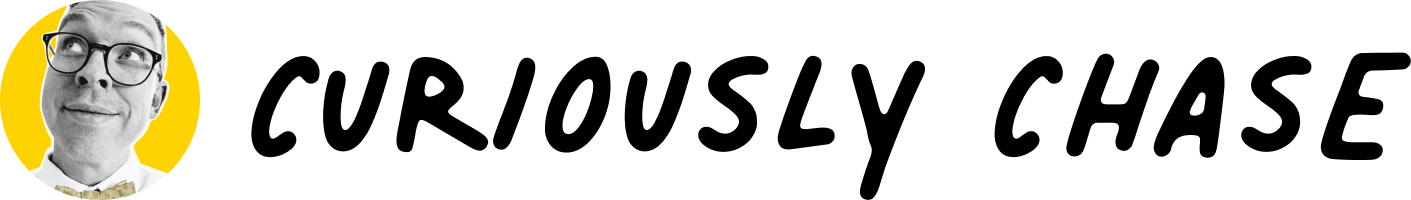
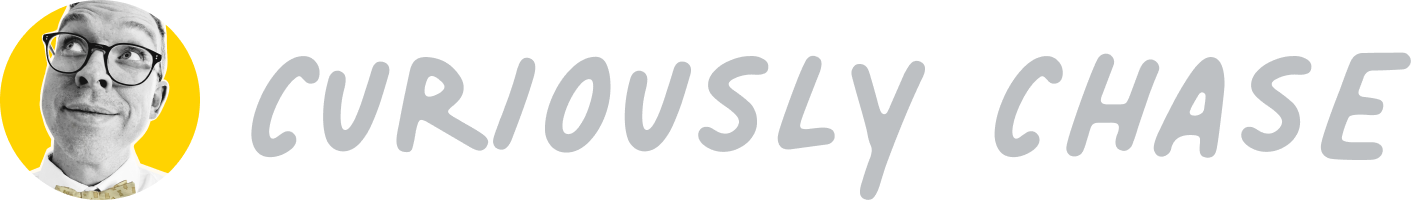
update open graph

Changed region(s): [[0.1559, 0.27, 0.6549, 1.0], [0.686, 0.24, 1.0, 0.81]]

diff --git a/src/pages/open-graph/[...route].ts b/src/pages/open-graph/[...route].ts
@@ -37,13 +37,13 @@ export const { getStaticPaths, get } = OGImageRoute({
         size: 80,
         lineHeight: 1.2,
         textTransform: "uppercase",
-        color: [0, 0, 0],
+        color: [255, 255, 255],
         families: ["BN Tillsdale"],
       },
       description: {
         size: 48,
         lineHeight: 0.8,
-        color: [0, 0, 0],
+        color: [255, 255, 255],
         families: ["Palmer Lake Print"],
       },
     },
@@ -52,8 +52,8 @@ export const { getStaticPaths, get } = OGImageRoute({
       size: [400],
     },
     padding: 40,
-    border: { color: [255, 241, 12], width: 20, side: "inline-start" },
-    bgGradient: [[248, 240, 219]],
+    border: { color: [1, 38, 126], width: 20, side: "inline-start" },
+    bgGradient: [[56, 110, 237]],
     fonts: [
       "https://curiouslychase.com/fonts/BNTillsdale/BNTillsdale-Bold.otf",
       "https://curiouslychase.com/fonts/BNTillsdale/BNTillsdale.otf",
